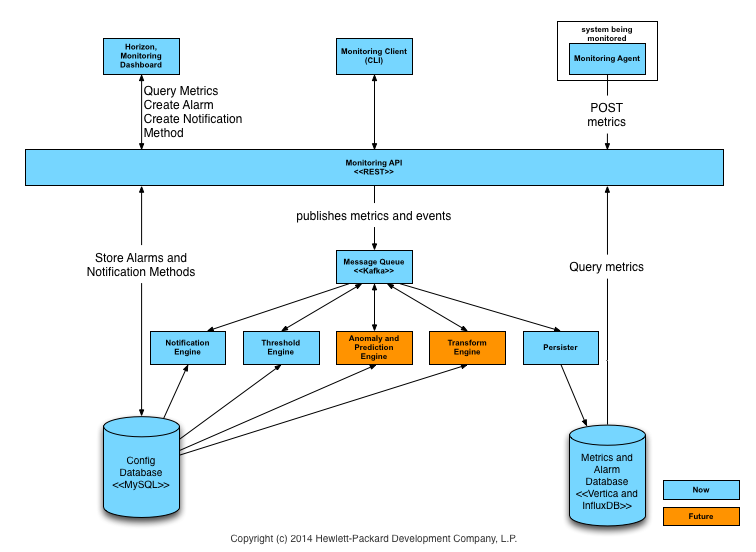
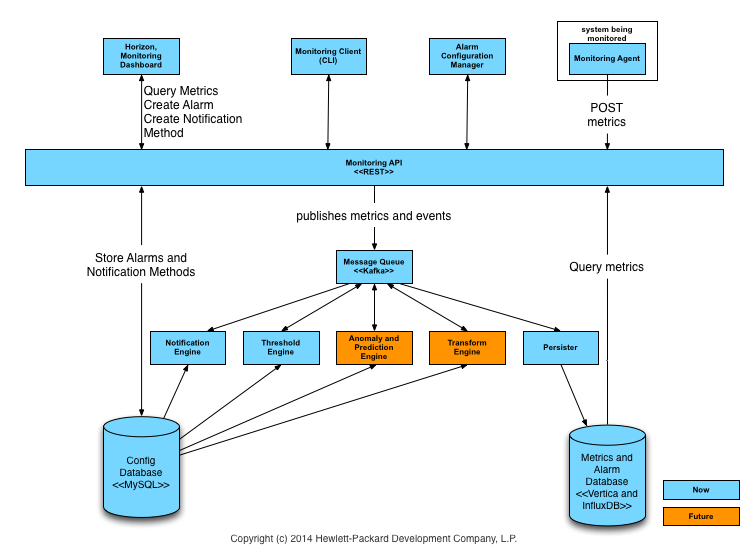
Adding alarm config manager to diagram.

Changed region(s): [[0.3651, 0.0616, 0.6693, 0.154]]

diff --git a/README.md b/README.md
@@ -64,6 +64,8 @@ This section describes the overall features.
 
 * Monitoring Client (python-monclient): A Python command line client and library that communicates and controls the Monitoring API. The Monitoring Client was written using the OpenStack Heat Python client as a framework. The Monitoring Client also has a Python library, "monclient" similar to the other OpenStack clients, that can be used to quickly build additional capabilities. The Monitoring Client library is used by the Monitoring UI, Ceilometer publisher, and other components.
 
+* Alarm Configuration Manager: A Python process that will detect new metrics and configure alarms based on the configuration. It uses the monitoring client library that communicates with the Monitoring API. The Alarm Configuration Manager is a Python Daemon that runs on a configurable interval and detects new metrics that need to be alarmed and creates the alarms.
+
 * Monitoring UI: A Horizon dashboard for visualizing the overall health and status of an OpenStack cloud.
 
 * Ceilometer publisher: A multi-publisher plugin for Ceilometer, not shown, that converts and publishes samples to the Monitoring API.
